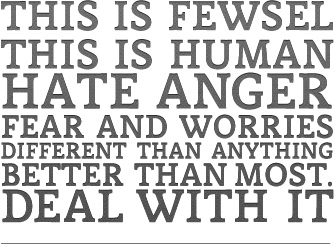
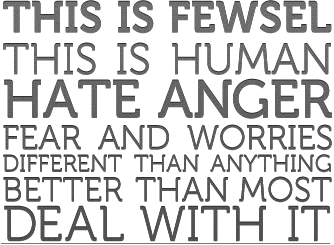
new style

diff --git a/public/stylesheets/style.css b/public/stylesheets/style.css
@@ -8,7 +8,17 @@
     font-weight: normal;
     font-style: normal;
 }
-/*@font-face {
+@font-face {
+    font-family: 'BebasRegular';
+    src: url('BEBAS___-webfont.eot');
+    src: url('BEBAS___-webfont.eot?#iefix') format('embedded-opentype'),
+         url('BEBAS___-webfont.woff') format('woff'),
+         url('BEBAS___-webfont.ttf') format('truetype'),
+         url('BEBAS___-webfont.svg#BebasRegular') format('svg');
+    font-weight: normal;
+    font-style: normal;
+}
+@font-face {
     font-family: 'Museo500';
     src: url('museo500-regular-webfont.eot');
     src: url('museo500-regular-webfont.eot?#iefix') format('embedded-opentype'),
@@ -17,7 +27,7 @@
          url('museo500-regular-webfont.svg#Museo500') format('svg');
     font-weight: normal;
     font-style: normal;
-}*/
+}
 @font-face {
     font-family: 'Museo300';
     src: url('museo300-regular-webfont.eot');
@@ -228,7 +238,7 @@ html, body {
 	height: 100%;
 }
 html {
-	background: url("/images/html-bg.png") top center;
+	background: url("/images/body-bg.jpg");
 	overflow: -moz-scrollbars-vertical;
 	ms-text-size-adjust: 100%;
 	overflow-y: scroll;
@@ -239,26 +249,32 @@ html {
 	height: auto !important;
 	margin: 0px auto;
 	min-height: 100%;
-	padding: 0;
+	padding: 0 180px 0 180px;
 	text-align: left;
-	width: 1000px;
+	width: 640px;
+	background: #fff url(/images/content-bg.jpg);
+	border: 1px solid #fff;	
 }
 #header {
-	padding: 20px 0 0 0;
-	height: 70px;
+	padding: 0px 0 0 0;
+	height: 140px;
 	text-align: center;
+	width: 1000px;
+	margin: 0 auto 0 auto;
 }
-#leftcol {
-	width: 360px;
-	float: left;
+#leftnav, #rightnav {
+	width: 330px;
+	height: 120px;
 }
-#rightcol {
-	width: 600px;
+#rightnav {
 	float: right;
 }
+#leftnav {
+	float: left;
+}
 nav {
-	font-family: "BelleroseLight", Georgia,serif;
-	font-size: 20px;
+	font-family: "BebasRegular", Arial, sans-serif;
+	font-size: 28px;
 	font-style: normal;
 	font-weight: normal;
 	height: 40px;
@@ -271,7 +287,7 @@ nav a {
 	color: #fff;
 	text-shadow: 0px 1px 0px #000;
 	text-decoration: none;
-	letter-spacing: 1px;
+	letter-spacing: -1px;
 }
 nav ul {
 	list-style: none;
@@ -281,10 +297,11 @@ nav ul li {
 	margin:0px;
 }
 #logo {
+	float: left;
 	margin: 0px;
-	width: 360px;
-	height: 120px;
-	background: url(/images/fewsel-logo.png) top center no-repeat;
+	width: 353px;
+	height: 220px;
+	background: url(/images/fewsel-logo.png) center -65px no-repeat;
 }
 #claim {
 	display: block;
@@ -297,10 +314,20 @@ nav ul li {
 	padding: 20px 0 0 0;
 	margin: 0px 0 100px 0;
 }
-footer {
+#footer {
+	width: 1000px;
+	height: 500px;
 	clear: both;
-	margin: 0;
-	padding: 0 40px 20px;
+	margin: 0px auto 300px auto;
+	padding: 0px;
+	background: url(/images/footer-bg.jpg);
+	text-align: center;
+}
+#footerlogo {
+	top: -30px;
+	width: 1000px;
+	height: 110px;
+	background: url(/images/footer-logo.png) top center no-repeat;
 }
 a {
 	color: #fff;
@@ -336,7 +363,7 @@ a:active {
 	text-align: center;
 }
 body {
-	background: url("/images/body-bg.png") top center no-repeat;
+	background: url("/images/beams.png") top center no-repeat;
 	color: white;
 	font-family: 'Museo300',serif;
 	font-size: 14px;
@@ -345,18 +372,21 @@ body {
 }
 h1 {
 	clear: both;
-	font-family: "BelleroseLight","Museo300",serif;
+	font-family: "BebasRegular", Arial, sans-serif;
 	font-size: 30px;
 	font-weight: normal;
-	letter-spacing: 2px;
+	letter-spacing: -1px;
+	color: #5a807c;
+	text-shadow: 0px -1px 0px #fff;
 }
 h2 {
-	font-family: "Museo300",serif;
+	font-family: "BebasRegular", Arial, sans-serif;
 	font-size: 20px;
 	font-style: normal;
 	font-weight: normal;
 	line-height: 1.2em;
 	margin: 0.5em 0;
+	text-shadow: 0px -1px 0px #fff;
 }
 h2 a {
 	color: #999999;

diff --git a/sass/style.scss b/sass/style.scss
@@ -52,6 +52,7 @@ body {
 	line-height: 19px;
 	font-size: 14px;
 	color: $text
+	background: url("/images/beams.png") top center no-repeat;
 }
 
 h1 {
